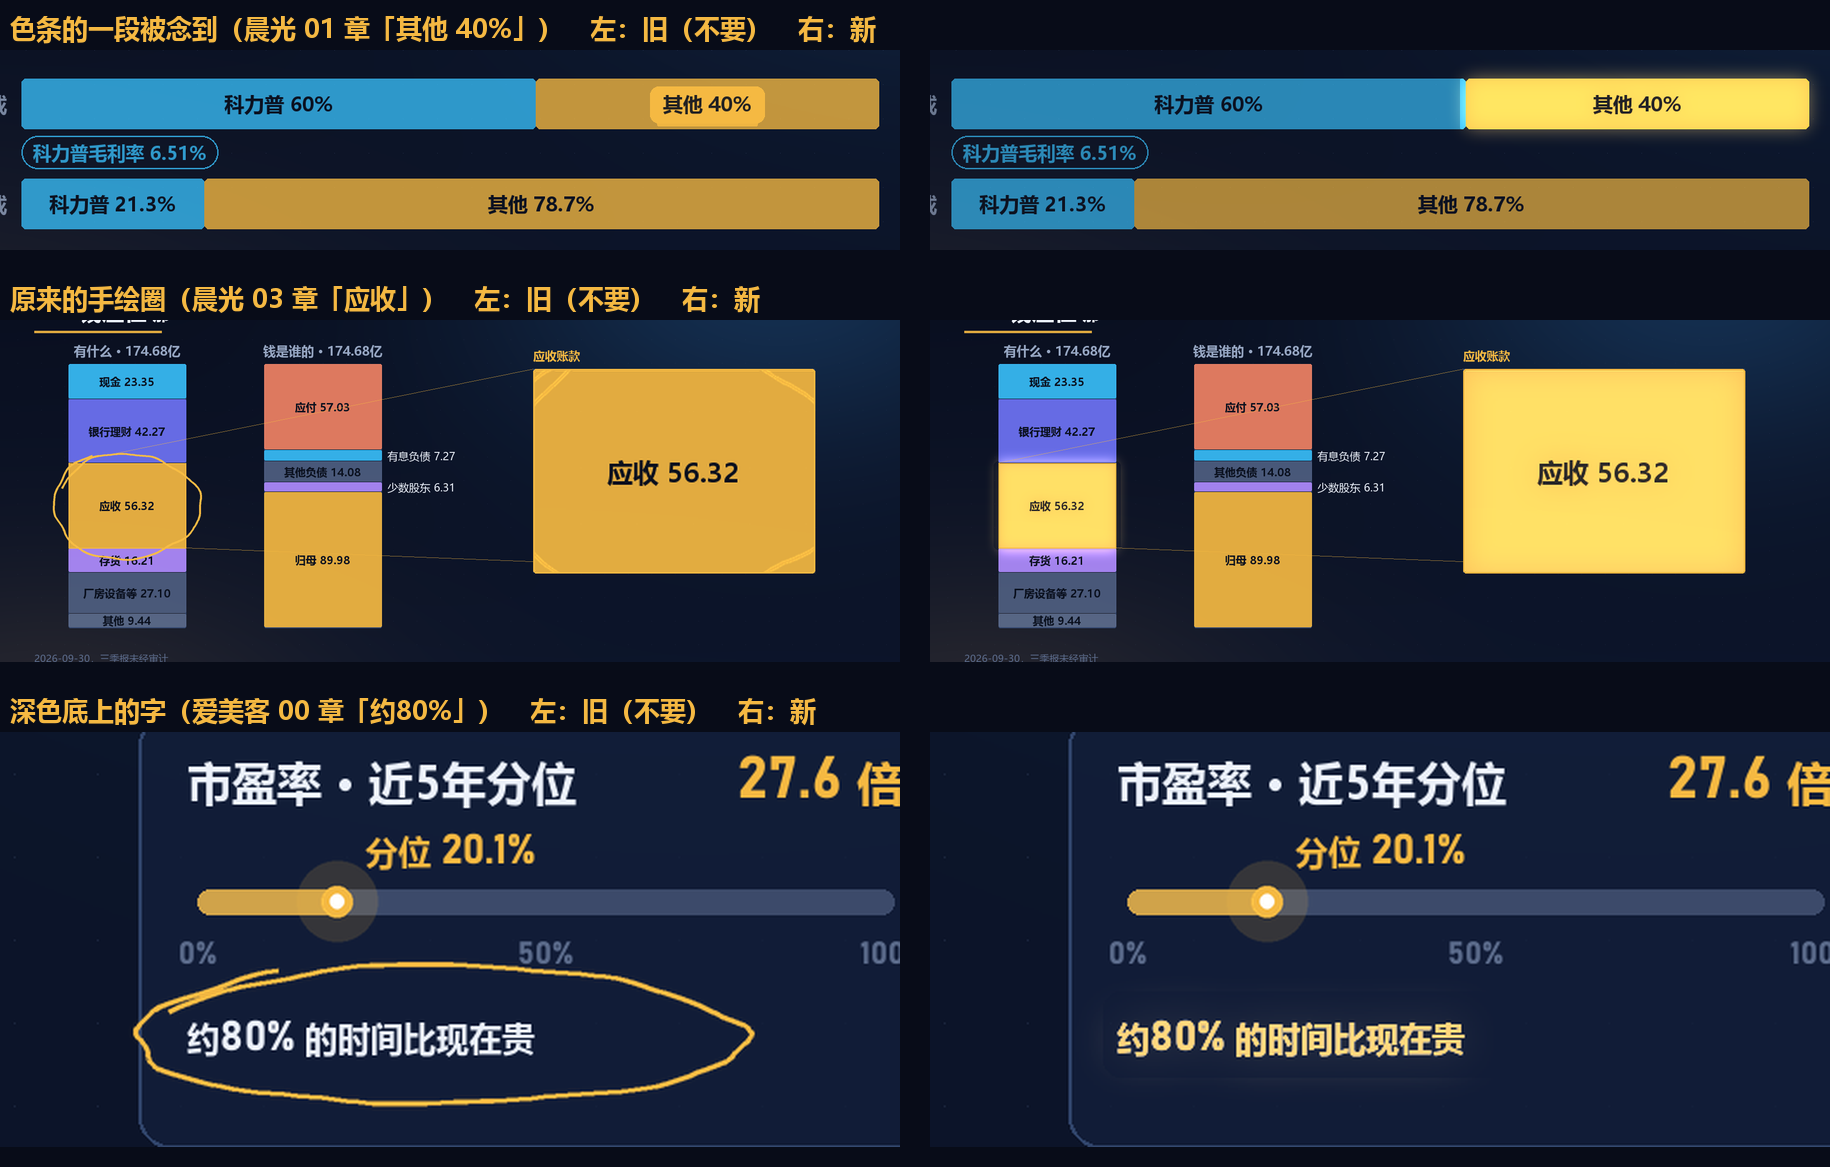
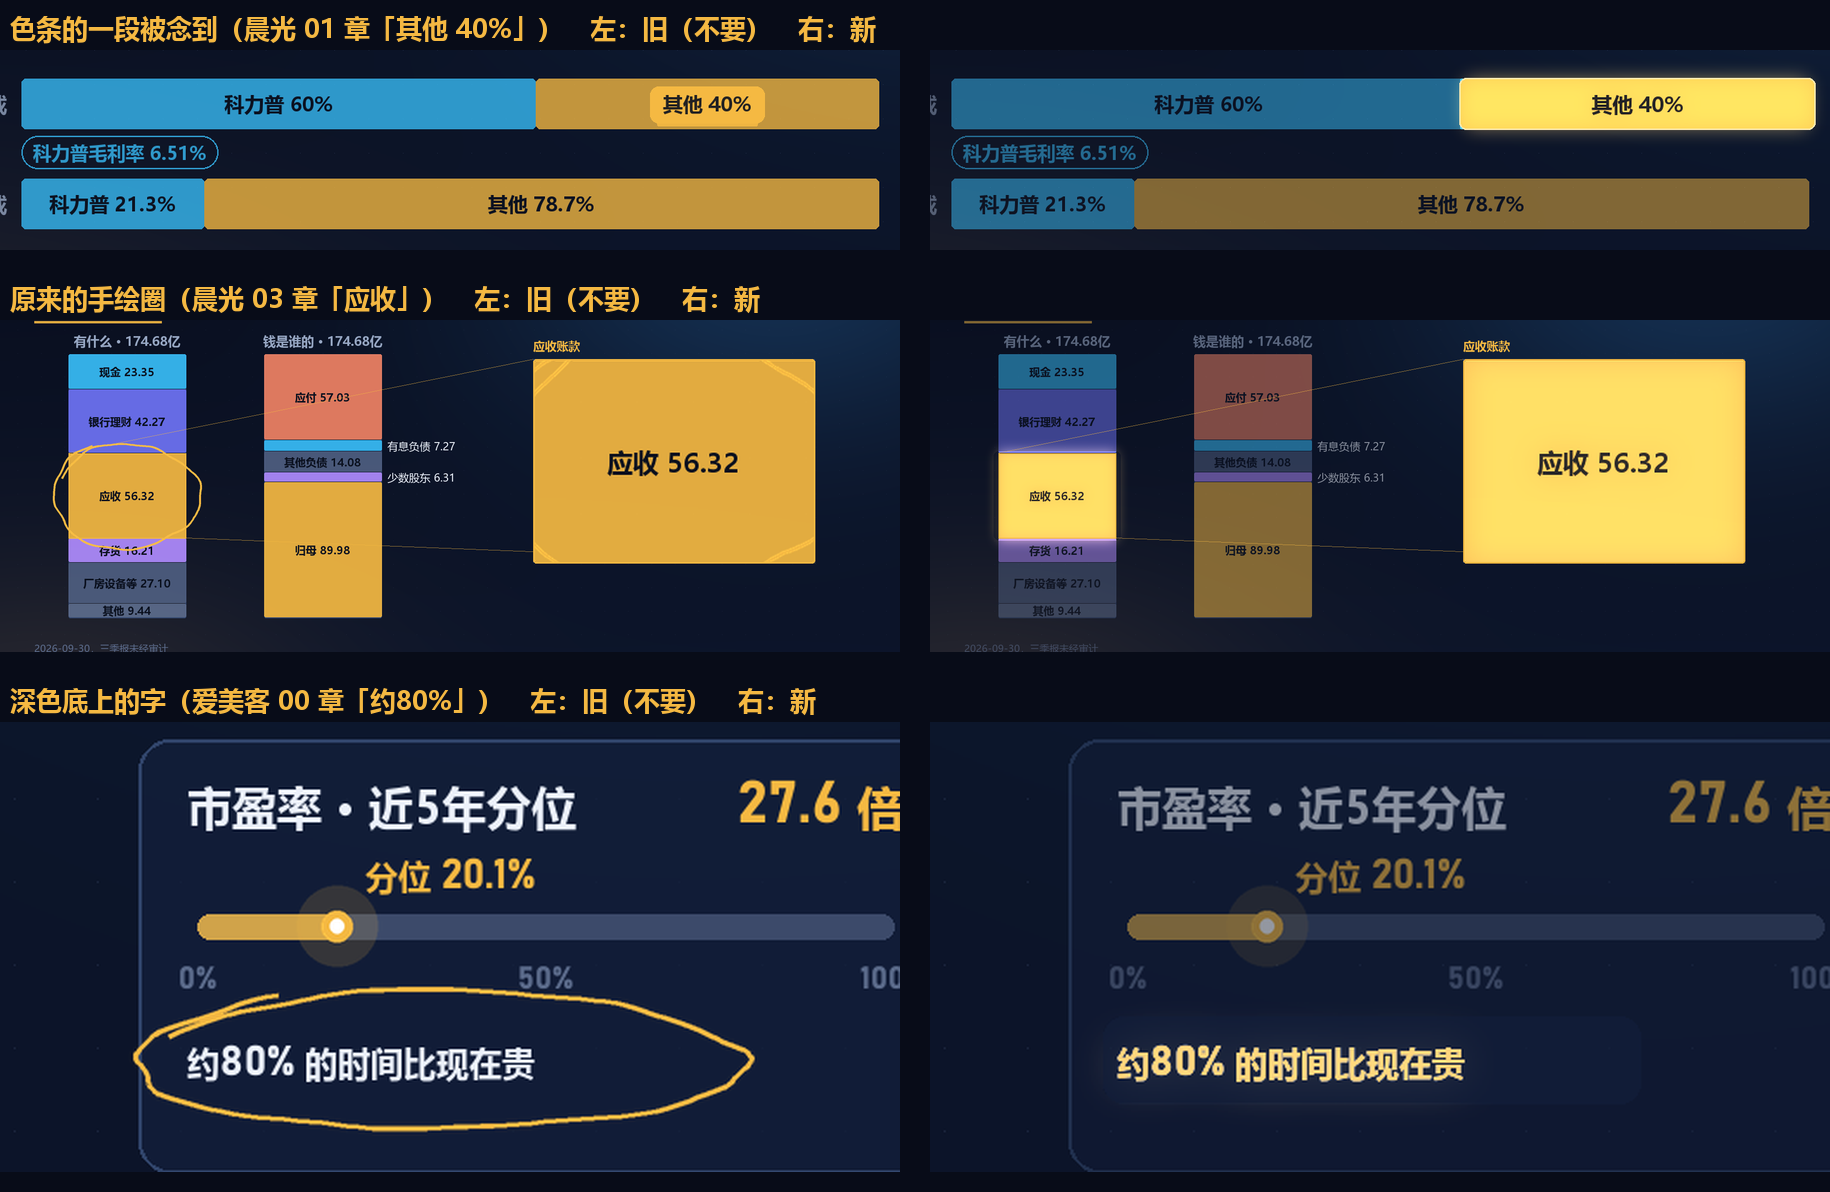
57号补丁二十一·续：强调照用户认可样式——其余压暗加重、亮的那块略放大加细亮边
- spot_dim 0.32 → 0.5；色块被念到时 glow(grow=0.05, edge=True)
- fxplus.focus 加 grow / edge；旧名 ring 压暗其余（dim=0.45）
- docs/强调_新旧对比.png 重拼

diff --git a/scripts/motion.py b/scripts/motion.py
@@ -234,9 +234,11 @@ def overlay(f, q, alpha=0.85):
     if q > 0: f.rect((0, 120, W, 920), (6, 10, 22), alpha * q)
     if q > 0.3 and f.rec is not None: f.cover = len(f.rec)
 
-def glow(f, box, k, col=None, r=10, pad=28):
+def glow(f, box, k, col=None, r=10, pad=28, grow=0.0, edge=False):
     """让一块已经画好的元素本身亮起来（57号补丁二十一）：box 内像素提亮 + 外面一圈柔光。不加框、不贴标签。
-    k = 强度 0~1；col 给了就在 box 内薄铺一层这个色（box 底下是深色背景时也看得出亮）。在这块元素画完之后调用。"""
+    k = 强度 0~1；col 给了就在 box 内薄铺一层这个色（box 底下是深色背景时也看得出亮）；
+    grow = 这块放大的比例（0.05 = 放大 5%），edge = 沿这块边缘描一圈细亮边。在这块元素画完之后调用。
+    样子见 docs/强调_用户认可样式.png：整段亮起、略放大、细亮边，其余压暗。"""
     if k <= 0.01: return
     x0, y0, x1, y1 = [int(round(v)) for v in box]
     X0, Y0, X1, Y1 = max(0, x0 - pad), max(0, y0 - pad), min(W, x1 + pad), min(H, y1 + pad)
@@ -256,6 +258,13 @@ def glow(f, box, k, col=None, r=10, pad=28):
     halo = np.asarray(Image.fromarray(np.clip(src, 0, 255).astype(np.uint8)).filter(ImageFilter.GaussianBlur(12)), np.float32)
     a2 = a2 + halo * 0.6 * k * (1 - 0.7 * mi)
     f.im.paste(Image.fromarray(np.clip(a2, 0, 255).astype(np.uint8)), (X0, Y0))
+    if grow > 0 or edge:
+        s_ = 1 + grow * k; cw, ch = x1 - x0, y1 - y0; nw, nh = max(1, round(cw * s_)), max(1, round(ch * s_))
+        bx = (x0 - (nw - cw) // 2, y0 - (nh - ch) // 2); rr = max(0, min(r, nh // 2, nw // 2))
+        if nw != cw or nh != ch:
+            mk = Image.new('L', (nw, nh), 0); ImageDraw.Draw(mk).rounded_rectangle((0, 0, nw - 1, nh - 1), rr, fill=255)
+            f.im.paste(f.im.crop((x0, y0, x1, y1)).resize((nw, nh), Image.LANCZOS), bx, mk)
+        if edge: f.rect((bx[0], bx[1], bx[0] + nw - 1, bx[1] + nh - 1), None, 0, r=rr, outline=(255, 244, 214), ow=2, oa=0.85 * k)
 
 # ---------- 背景 ----------
 _BG = None
@@ -276,7 +285,7 @@ def background():
 
 # ---------- 工程配置 ----------
 C = dict(root=None, name='', code='', source='', voice='zh-CN-YunyangNeural', rate='+6%',
-         lead=0.7, gap=0.35, tail=1.0, scenes=[], out_name='final.mp4', music=0.075, sub_size=44, spotlight=True, spot_dim=0.32,
+         lead=0.7, gap=0.35, tail=1.0, scenes=[], out_name='final.mp4', music=0.075, sub_size=44, spotlight=True, spot_dim=0.5,
          crf=18, preset='medium', x264_threads=3,      # 编码参数：要更快出片可在 setup 里传 preset='veryfast'
          edge_fade=0.3)                                # 每章首尾淡入淡出黑场的秒数；0 = 不淡，章节自己做进出场（如 fxplus.transition）
 def setup(**kw):
@@ -533,7 +542,8 @@ def spotlight(f, si, t, sc):
     # 改成字所在的那一块整体提亮 + 柔光，慢呼吸
     for bx, st, env in lit:
         b = 0.5 - 0.5 * math.cos(2 * math.pi * max(0, t - st - 0.55) / 2.4)
-        glow(f, bx, env * (0.8 + 0.2 * b))
+        blk = (bx[2] - bx[0]) * (bx[3] - bx[1]) > 0 and any(bx == b_ for b_, _ in f.blocks or [])
+        glow(f, bx, env * (0.8 + 0.2 * b), grow=0.05 if blk else 0.0, edge=blk)
 
 # ---------- 对口型检查：念到的东西，画面上有没有 ----------
 # 不渲染，按每条字幕念完前的时刻跑一遍分镜函数，看画面上记下的字。

diff --git a/scripts/fxplus.py b/scripts/fxplus.py
@@ -173,8 +173,9 @@ def timeline(f, t, t0, box, events, d=1.6, col=GOLD, a=1.0, ticks=None, size=24,
 
 # ---------- 强调 ----------
 # 57号补丁二十一：强调 = 被讲到的元素本身亮起来，其余压暗。不画圈（手绘圈用户看了说丑），不在色块上另贴标签。
-def focus(f, t, t0, box, col=None, d=0.5, a=1.0, pad=6, dim=0.0):
+def focus(f, t, t0, box, col=None, d=0.5, a=1.0, pad=6, dim=0.0, grow=0.0, edge=False):
     """让 box 这块已经画好的元素本身亮起来：提亮 + 柔光（motion.glow）；dim > 0 时内容区其余部分同时压暗。
+    box 正好是一个色块时可传 grow=0.05, edge=True, dim=0.5（略放大 + 细亮边，docs/强调_用户认可样式.png）。
     放在这块元素画完之后调用（dim 只压它之前画的东西，要压全场就放在分镜函数最后）。返回进度。"""
     if a <= 0.01 or t < t0: return 0.0
     p = eo(pg(t, t0, d)); k = p * a; x0, y0, x1, y1 = box; R = (x0 - pad, y0 - pad, x1 + pad, y1 + pad)
@@ -182,13 +183,13 @@ def focus(f, t, t0, box, col=None, d=0.5, a=1.0, pad=6, dim=0.0):
         m = Image.new('L', (W, CONTENT[3] - CONTENT[1]), int(255 * dim * k))
         ImageDraw.Draw(m).rounded_rectangle((R[0], R[1] - CONTENT[1], R[2], R[3] - CONTENT[1]), 12, fill=0)
         f.im.paste(background().crop(CONTENT), CONTENT, m)
-    glow(f, R, k, col)
+    glow(f, R, k, col, grow=grow, edge=edge)
     return p
 
 
 def _ring(f, t, t0, box, col=GOLD, w=4, d=0.6, a=1.0, *_, **__):
     """补丁二十一前的手绘圈。旧工程重渲时改成 focus（不再画圈），新分镜直接用 focus。"""
-    return focus(f, t, t0, box, None, d, a, pad=0)
+    return focus(f, t, t0, box, None, d, a, pad=0, dim=0.45)
 ring = _ring          # 不写成 def：api_ref 速查里不再列出
 
 

diff --git a/CHANGELOG.md b/CHANGELOG.md
@@ -12,7 +12,7 @@
   - **滚动前显示 0**：`fx.count` 本身改了——v0 是 0 时念到之前不画（0 本身有意义传 `show0=True`）；fmt 里的 `{:g}` 按终值的小数位滚。这样晨光那 9 处从根上不会再出。另在 `motion.py` 加 `check_zero`：按 0.5 秒网格跑分镜函数（不渲染），同一位置、同一格式的字先是 0、后来变非 0 且露 0 超过半秒的，报"滚动前显示0"；滚动中出现 ≥4 位小数而停下来不是的，报"滚动露长小数"。自己手写的滚数（不走 fx.count）也查得到。
   - **写死的数**：`motion.py` 加 `check_source`：静态扫 video.py，报 facts.json 里已有的数写成字面量（按写出的小数位比）、一串 ≥3 个手写小数、手写算式角注（数字之间有 − × ÷ = ≈）；旁白原句、旁白里原样有的片段（B.at 触发词）、文档字符串不算。
   - 两条都并进 `check_scenes`，preview 的 output/check.txt 和 review_pack 的审片包都会列出。SKILL 第 4 步、任务书画面员规矩、`scripts/README.md` 各改一句。
-  - **强调**：`motion.spotlight` 不再套金色框和下划线，改成字所在的那一块（之前画的、包住字的最小实心色块，例如色条的一段）整体提亮 + 柔光、慢呼吸，其余压暗（`spot_dim` 0.22 → 0.32）；字不在色块上时，字本身转金色 + 柔光。新增 `motion.glow`（提亮按像素亮度加权，色块上的深色字不变灰，深色底不提出灰框）。`fxplus` 新增 `focus`（元素本身提亮，可选其余压暗）；`highlight` 改成整段提亮；`ring` 不再画手绘圈，旧工程重渲时等同 `focus`，并从 api_ref 速查撤下。SKILL 第 4 步画面原则加一句"强调就是让被讲到的元素本身亮起来，其余压暗；不画圈，不在色块上另贴标签"；文字方案模板第二节加强调一行；骨架 import 注释、`fx.py`/`fxplus.py` 文档同步。
+  - **强调**：`motion.spotlight` 不再套金色框和下划线，改成字所在的那一块（之前画的、包住字的最小实心色块，例如色条的一段）整体提亮 + 柔光、略放大 5% + 细亮边、慢呼吸，其余压暗（`spot_dim` 0.22 → 0.5），照 `docs/强调_用户认可样式.png`（另一会话放进来的用户认可示意，一并提交）；字不在色块上时，字本身转金色 + 柔光。新增 `motion.glow`（提亮按像素亮度加权，色块上的深色字不变灰，深色底不提出灰框）。`fxplus` 新增 `focus`（元素本身提亮，可选其余压暗、放大、细亮边）；`highlight` 改成整段提亮；`ring` 不再画手绘圈，旧工程重渲时等同 `focus(dim=0.45)`（提亮这块、压暗它之前画的其余内容），并从 api_ref 速查撤下。SKILL 第 4 步画面原则加一句"强调就是让被讲到的元素本身亮起来，其余压暗；不画圈，不在色块上另贴标签"；文字方案模板第二节加强调一行；骨架 import 注释、`fx.py`/`fxplus.py` 文档同步。
   - 对比图：`docs/强调_新旧对比.png`（晨光 01 章"其他 40%"、03 章原手绘圈、爱美客 00 章深色底上的字；左旧右新）。
 - 实测（都在副本里跑，不动原工程）：
   - 晨光现行 video.py：滚动前显示 0 报 0 处；写死的数报 3 处（瀑布图那串累计值、"推算：278 − 前三季度 180.1"、"全年收入离 278 亿元"），都是真的手写数。
